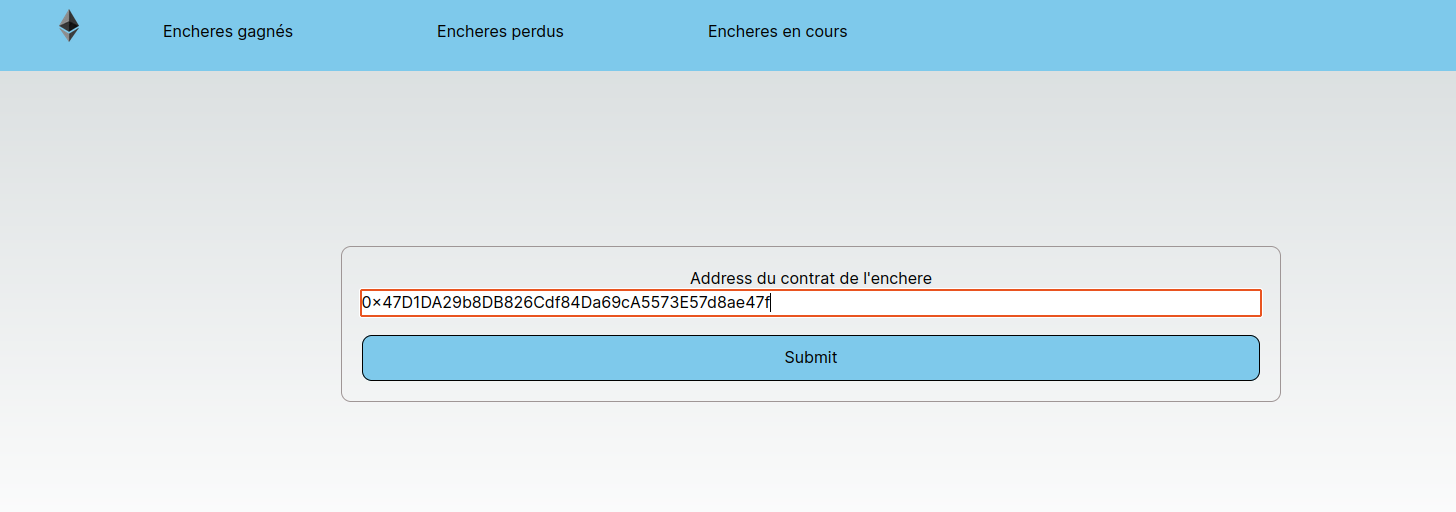
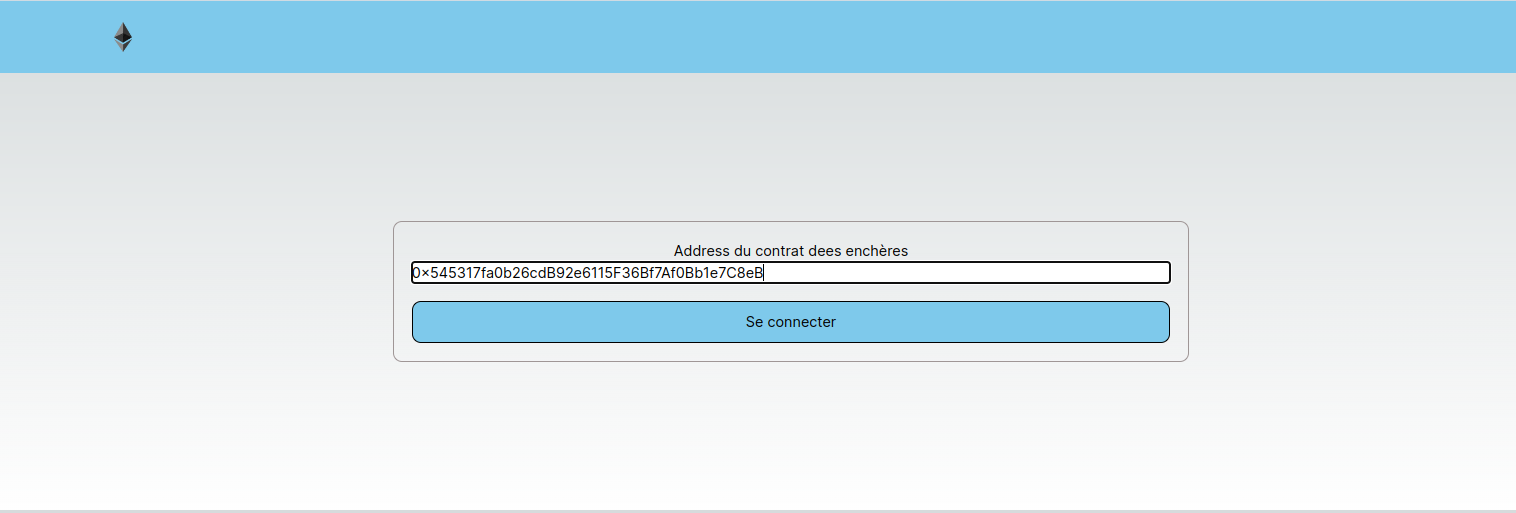
Mis a jour Rapport dans le README

diff --git a/dutch-auction/README.md b/dutch-auction/README.md
@@ -1,75 +1,73 @@
-# Enchère Hollandaise COTE WEB
+# Application décentralisée d'enchères hollandaises
 
-|   Nom           | Prénom   |
-|-----------------|----------|
-|   Alonso Tort   |  Andoni  |
+|       Nom       | Prénom  |
+|-----------------|---------|
+|   ALONSO TORT   |  Andoni |
 
+Le TP est à réaliser individuellement.
 
-This is a [Next.js](https://nextjs.org/) project bootstrapped with [`create-next-app`](https://github.com/vercel/next.js/tree/canary/packages/create-next-app).
+## Présentation
+
+Ce TP est le prolongement du premier et consiste à créer une application décentralisée (dApp) permettant de donner vie à votre Smart Contract (SC). Celle-ci doit pouvoir proposer les fonctionnalités suivantes.
+
+### Authentification et profil
+
+Il doit être possible de se connecter à l'aide de son portefeuille MetaMask. Vous pouvez utiliser la SDK de [MetaMask](https://docs.metamask.io/wallet/how-to/connect/set-up-sdk/).
+
+Les données du portefeuille telles que la clé publique et le solde en ETH doivent être visibles depuis l'application.
+
+### Enchères
+
+La gestion des enchères est composée des éléments suivants :
+- Une liste des enchères disponibles ;
+- Créer une enchère avec les paramètres souhaités par le propriétaire ;
+- Participer à une ou plusieurs enchères ;
+- Pouvoir enchérir ;
+- Cloturer une enchère (versement des fonds au propriétaire de l'enchère) ;
+- Un tableau de bord permettant de visualiser les enchères gagnées, en cours ou perdues.
+
+*N'oubliez pas de créer une barre de navigation pour accéder aux différentes fonctionnalités.*
+
+Pour interagir avec la blockchain depuis votre application, il existe plusieurs bibliothèques telles que [ethers](https://docs.ethers.org/v5/) ou encore [web3js](https://web3js.readthedocs.io/en/v1.10.0/).
+
+## Restitution
+
+**Un rapport concernant l'utilisation de l'application sera à restituer 3 semaines après le dernier TP.**
+
+Pour ce projet, il est imposé d'utiliser le framework [NextJS](https://nextjs.org/) qui utilise la bibliothèque [React](https://react.dev/).
+
+## Installation
+
+Pour créer une application NextJS, utilisez la commande suivante : 
+```shell
+npx create-next-app@latest
+```
+
+A vous de jouer !
 
 ## Getting Started
 
-First, run the development server:
+Executer :
 
 ```bash
 npm run dev
-# or
-yarn dev
-# or# Enchère Hollandaise
-
-|   Nom           | Prénom   |
-|-----------------|----------|
-|   Alonso Tort   |  Andoni  |
-
-pnpm dev
-# or
-bun dev
 ```
 
-Open [http://localhost:3000](http://localhost:3000) with your browser to see the result.
-
-You can start editing the page by modifying `app/page.tsx`. The page auto-updates as you edit the file.
-
-This project uses [`next/font`](https://nextjs.org/docs/basic-features/font-optimization) to automatically optimize and load Inter, a custom Google Font.
-
-## Learn More
-
-To learn more about Next.js, take a look at the following resources:
-
-- [Next.js Documentation](https://nextjs.org/docs) - learn about Next.js features and API.
-- [Learn Next.js](https://nextjs.org/learn) - an interactive Next.js tutorial.
-
-You can check out [the Next.js GitHub repository](https://github.com/vercel/next.js/) - your feedback and contributions are welcome!
-
-## Deploy on Vercel
-
-The easiest way to deploy your Next.js app is to use the [Vercel Platform](https://vercel.com/new?utm_medium=default-template&filter=next.js&utm_source=create-next-app&utm_campaign=create-next-app-readme) from the creators of Next.js.
-
-Check out our [Next.js deployment documentation](https://nextjs.org/docs/deployment) for more details.
+Ouvrir [http://localhost:3000](http://localhost:3000) avec votre navigateur pour voir le résultat.
 
 
-======= ENCHERE HOLLANDAISE APP =======
+# = ENCHERE HOLLANDAISE APP =
 
 Attention, pour le bon fonctionnement de ce projet il faut déjà avoir installé Metamask sur notre navigateur, les étapes à suivre son expliquées dans le rapport dans l'autre [projet de la forge](https://www-apps.univ-lehavre.fr/forge/aa204303/dutch-auction.git).
 
 ## Ganache
 Pour qu'on puisse utiliser notre contrat, ne pas oublier de lancer ganache avant et deployer notre contract dans notre notre application sur [le projet de la forge](https://www-apps.univ-lehavre.fr/forge/aa204303/dutch-auction.git).
 
-L'enchère commencera dès que le contrat est deployé.
+Juste pour vérifier le fonctionnement, j'ai rajouté deux enchères qui commenceront dès que le contrat est deployé.
 
 !['Ganache'](./Images/1_Ganache_Contract.png)
 
-## ABI 
-Pour l'Abi de notre contrat il peut etre situé dans le dossier build/contracts/DutchAuction.json dans l'autre [projet](https://www-apps.univ-lehavre.fr/forge/aa204303/dutch-auction.git).
-
-Pour l'application Web, l'Abi à été placé dans app/composants/abi.tsx.
-
 ## Application WEB
-
-Lancer l'application avec
-```bash
-    npm run dev
-```
 
 Aller sur http://localhost:3000/dashboard
 
@@ -79,21 +77,100 @@ On arrive sur la page principal, et là on pourra fournir l'address de notre con
 
 La première fois qu'on clique, une fenêtre sera affiche dans le navigateur pour faire un login dans notre compte de Metamask
 
+![MetaMaskConnection](./Images/3_Connection_Metamask.png)
+
+Reinseignez votre mot de passe.
 
 ![MetaMaskConnection](./Images/3_Connection_Metamask.png)
 
-Reinseignez votre mmot de passe et puis cliquer sur l'onglet de la barre de navigation "Encheres en cours".
+On aura un message qu'on est connecté a notre contrat, et on verra les differents onglets dans la barre de navigation.
+
+![ContractConnected](./Images/4_Connection_Contrat_Reussit.png)
 
 
-![ArticlesEnCours](./Images/4_Articles_en_cours.png)
+Puis cliquer sur l'onglet de la barre de navigation "Encheres en cours".
 
 
-Ici on verra les articles en cours dans l'ènchere avec un le temps écoulé depuis que l'article est disponible, le prix descends chaque minute, jusqu'à arriver à 0.2 eth.
-
-L'arricle disponible sur le momet, fourni un input où on pourra placcer une offre selon le prix en temps réel affiché dans l'application. C'est à dire que si on essaie d'acheter le produit pour un prix plus bas de ce qui est affiché, on aura un erreur.
+![ArticlesEnCours](./Images/5_Encheres_en_cours_1.png)
 
 
-![ErreurPrix](./Images/5_Erreur_Article_Prix.png)
+Ici on verra deux encheres qui on été lancés lors du deploiment du contrat. On verra à gauche le nom de l'article et le temp écuoulé depuis depuis qu'il a demarré.
+
+Pour les deux encherès le prix descends chaque 50 seconds, jusqu'à arriver à 0.2 eth.
+
+L'arricle disponible sur le moment, fourni un input où on pourra placer une offre selon le prix en temps réel affiché dans l'application. C'est à dire que si on essaie d'acheter le produit pour un prix plus bas de ce qui est affiché, on aura un erreur.
+
+![ErrorPrice](./Images/6_Erreur_prix_inferieur.png)
+
+
+On peut voir que l'on a entre parenteses un texte qui dit (Mon Enchère), cela est parce que les enchères on été crée dans le compte où on est connectés, essayons maintenant de changer de compte Metamast et devenir sur la page "Encheres en cours".
+
+![ChangeCount](./Images/7_Changer_compte.png)
+![Current_Auctions](./Images/8_Encheres_en_cours_2.png)
+
+
+Si on revient sur l'onglet "Encheres en cours" on verra que les enchères qui n'ont pas été crées avec mon compte sont en gris et on n'a plus le texte (Mon Enchere).
+
+Pour créer un enchère dans le compte connecté, aller sur l'onglet "Creer un Enchere".
+
+![Create_Auction](./Images/9_Creer_un_enchere.png)
+
+Ici on a plusieurs champs a remplir : 
+    <ul>
+        <li><b>Nom de l'enchere:</b> Un string pour nommer notre enchère</li>
+        <li><b>Duraction totale:</b> Duration max de l'enchere avant le fermer (temps donné en seconds)</li>
+        <li><b>Prix initiale:</b> Le prix initial pour tous les articles au démarrage. Ici on va commencer avec un prix de 2 eth.</li>
+        <li><b>Baisse de prix:</b> Combien on veut baisser le prix au fur et à messure que le temps augmente.</li>
+        <li><b>Prix minimum des articles:</b> Le prix le plus bas auquel peut arriver un article.</li>
+        <li><b>Temps pour descendre le prix:</b> Dans combien de temps le prix sera diminué.</li>
+        <li><b>Articles:</b> On peut ajouter autant d'articles qu'on veut, il suffit de cliquer sur le bouton vert "Article +".</li>
+        <li><b>Commencer enchère fermé:</b> Si l'on veut pas commencer immédiatement l'enchère, on peut l'initialiser avec un état fermé pour l'ouvrir plus tard.</li>
+    </ul>
+    
+
+Une fois qu'on a rempli toutes les champs, on peut cliquer sur "Submit" pour créer notre enchère :
+
+![Auction_created](./Images/10_Enchere_cree.png)
+On aura un message que l'enchère a été crée.
+
+Si on vient à nouveau à l'onglet "Enchers  en cours" on va s'appercevoir qu'il n'est pas là. Cela est dû à qu'on l'a crée avec un état fermé. On ira donc à l'onglet "Mes Encheres".
+
+![My_Auctions](./Images/11_Mes_Encheres.png)
+
+Ici on verra que l'enchere est fermé et on a un bouton "Ouvrir l'enchere" pour le commencer.
+Le texte "(Ouvert)" dans les articles veut dire qu'ils n'ont pas encore été achetés.
+
+Cliquez sur "Ouvrir l'enchere pour commencer". Une fenêtre sera afficher, confirmez la transaction.
+
+![Open_auction](./Images/12_Ouvrir_Enchere.png)
+
+Une fois ouvert on verra que le temps commence a écouler et le prix commence a descendre.
+
+Si on vient à nouveau sur la page "Encheres en cours" on verra que notre nouveau enchère est là.
+
+![My_actions](./Images/13_My_Auctions_New_Auction.png)
+
+Maintenant essayons d'accheter un article.
+
+![Buy_article](./Images/14_Acheter_Article.png)
+
+Une fois la transaction completé on verra que l'enchère passe à larticle suivant
+
+![Next_article](./Images/15_Article_suivant.png)
+
+Essayons d'accher plusieurs articles, puis aller à l'onglet "Encheres gagnés".
+
+
+![Won_Auctions](./Images/16_Encheres_Gagnes.png)
+
+On verra une liste des articles gagnés dans les enchères existants.
+Si on bascule sur un autre compte on verra que la liste est vide
+
+![Won_Auctions2](./Images/17_Encheres_0_Gagnes.png)
+
+Par contre si on vient sur la liste d'encheres perdus, on verra la liste des articles qu'on a pas acheté et qui sont déjà achetés pas un autre compte.
+
+![Lost_Auctions](./Images/18_Encheres_Perdus.png)
 
 
 Cependant, si on place une offre égal ou supérieur au prix actuel on aura une confirmation Metamask pour la transaction.
